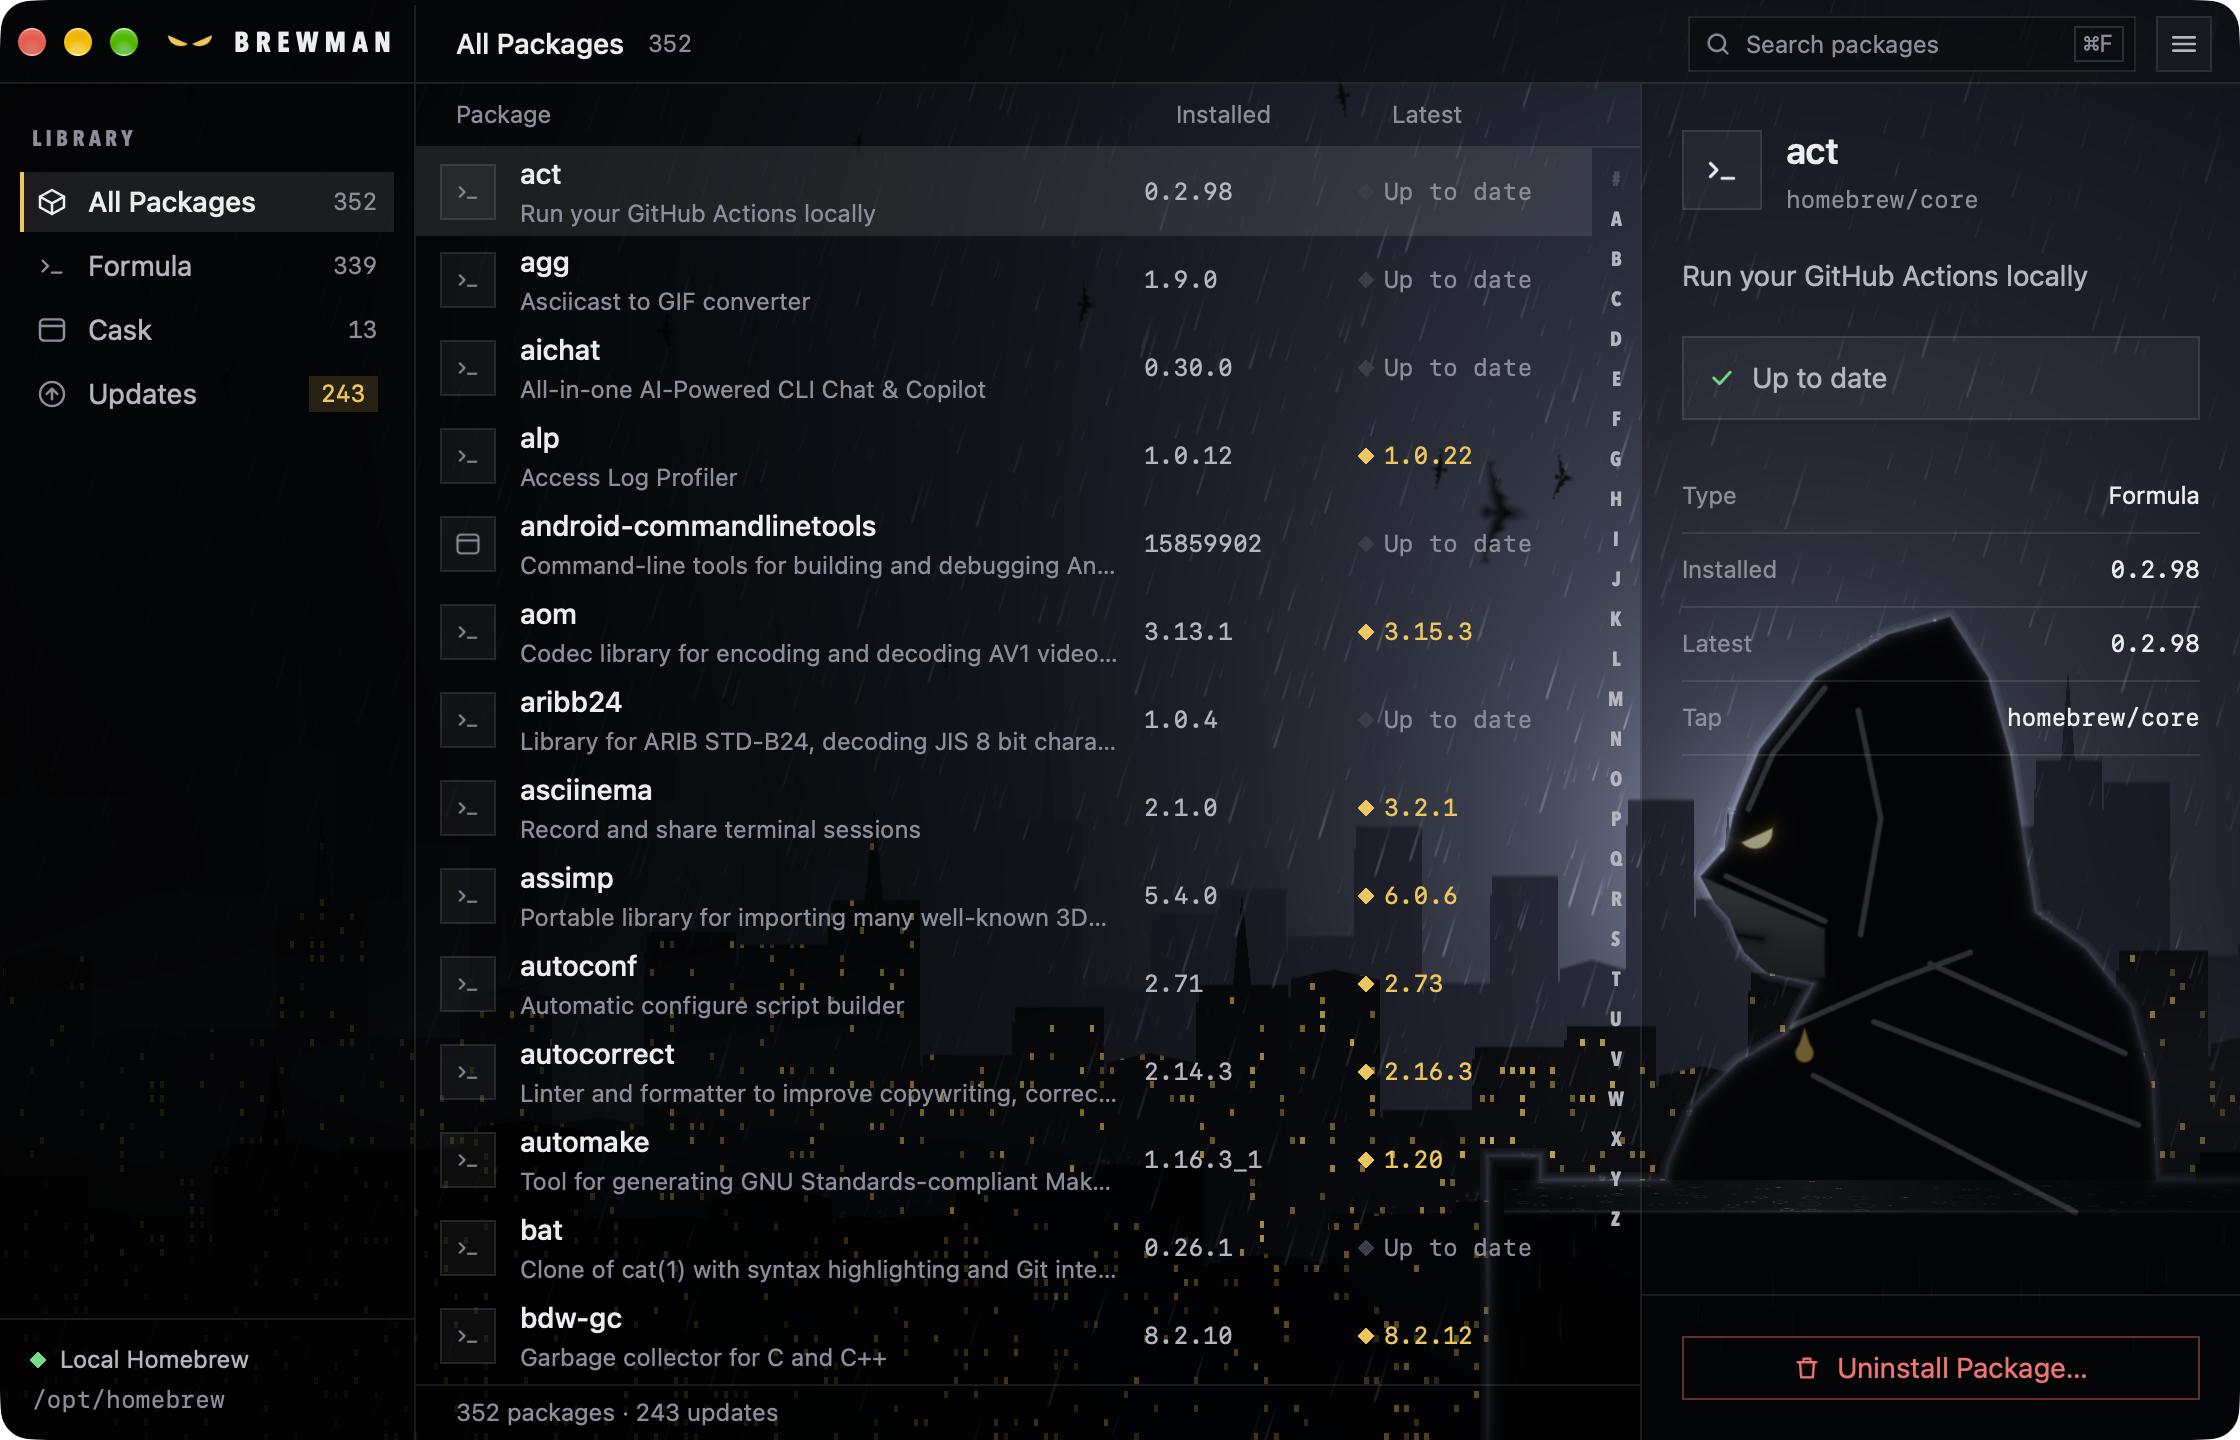
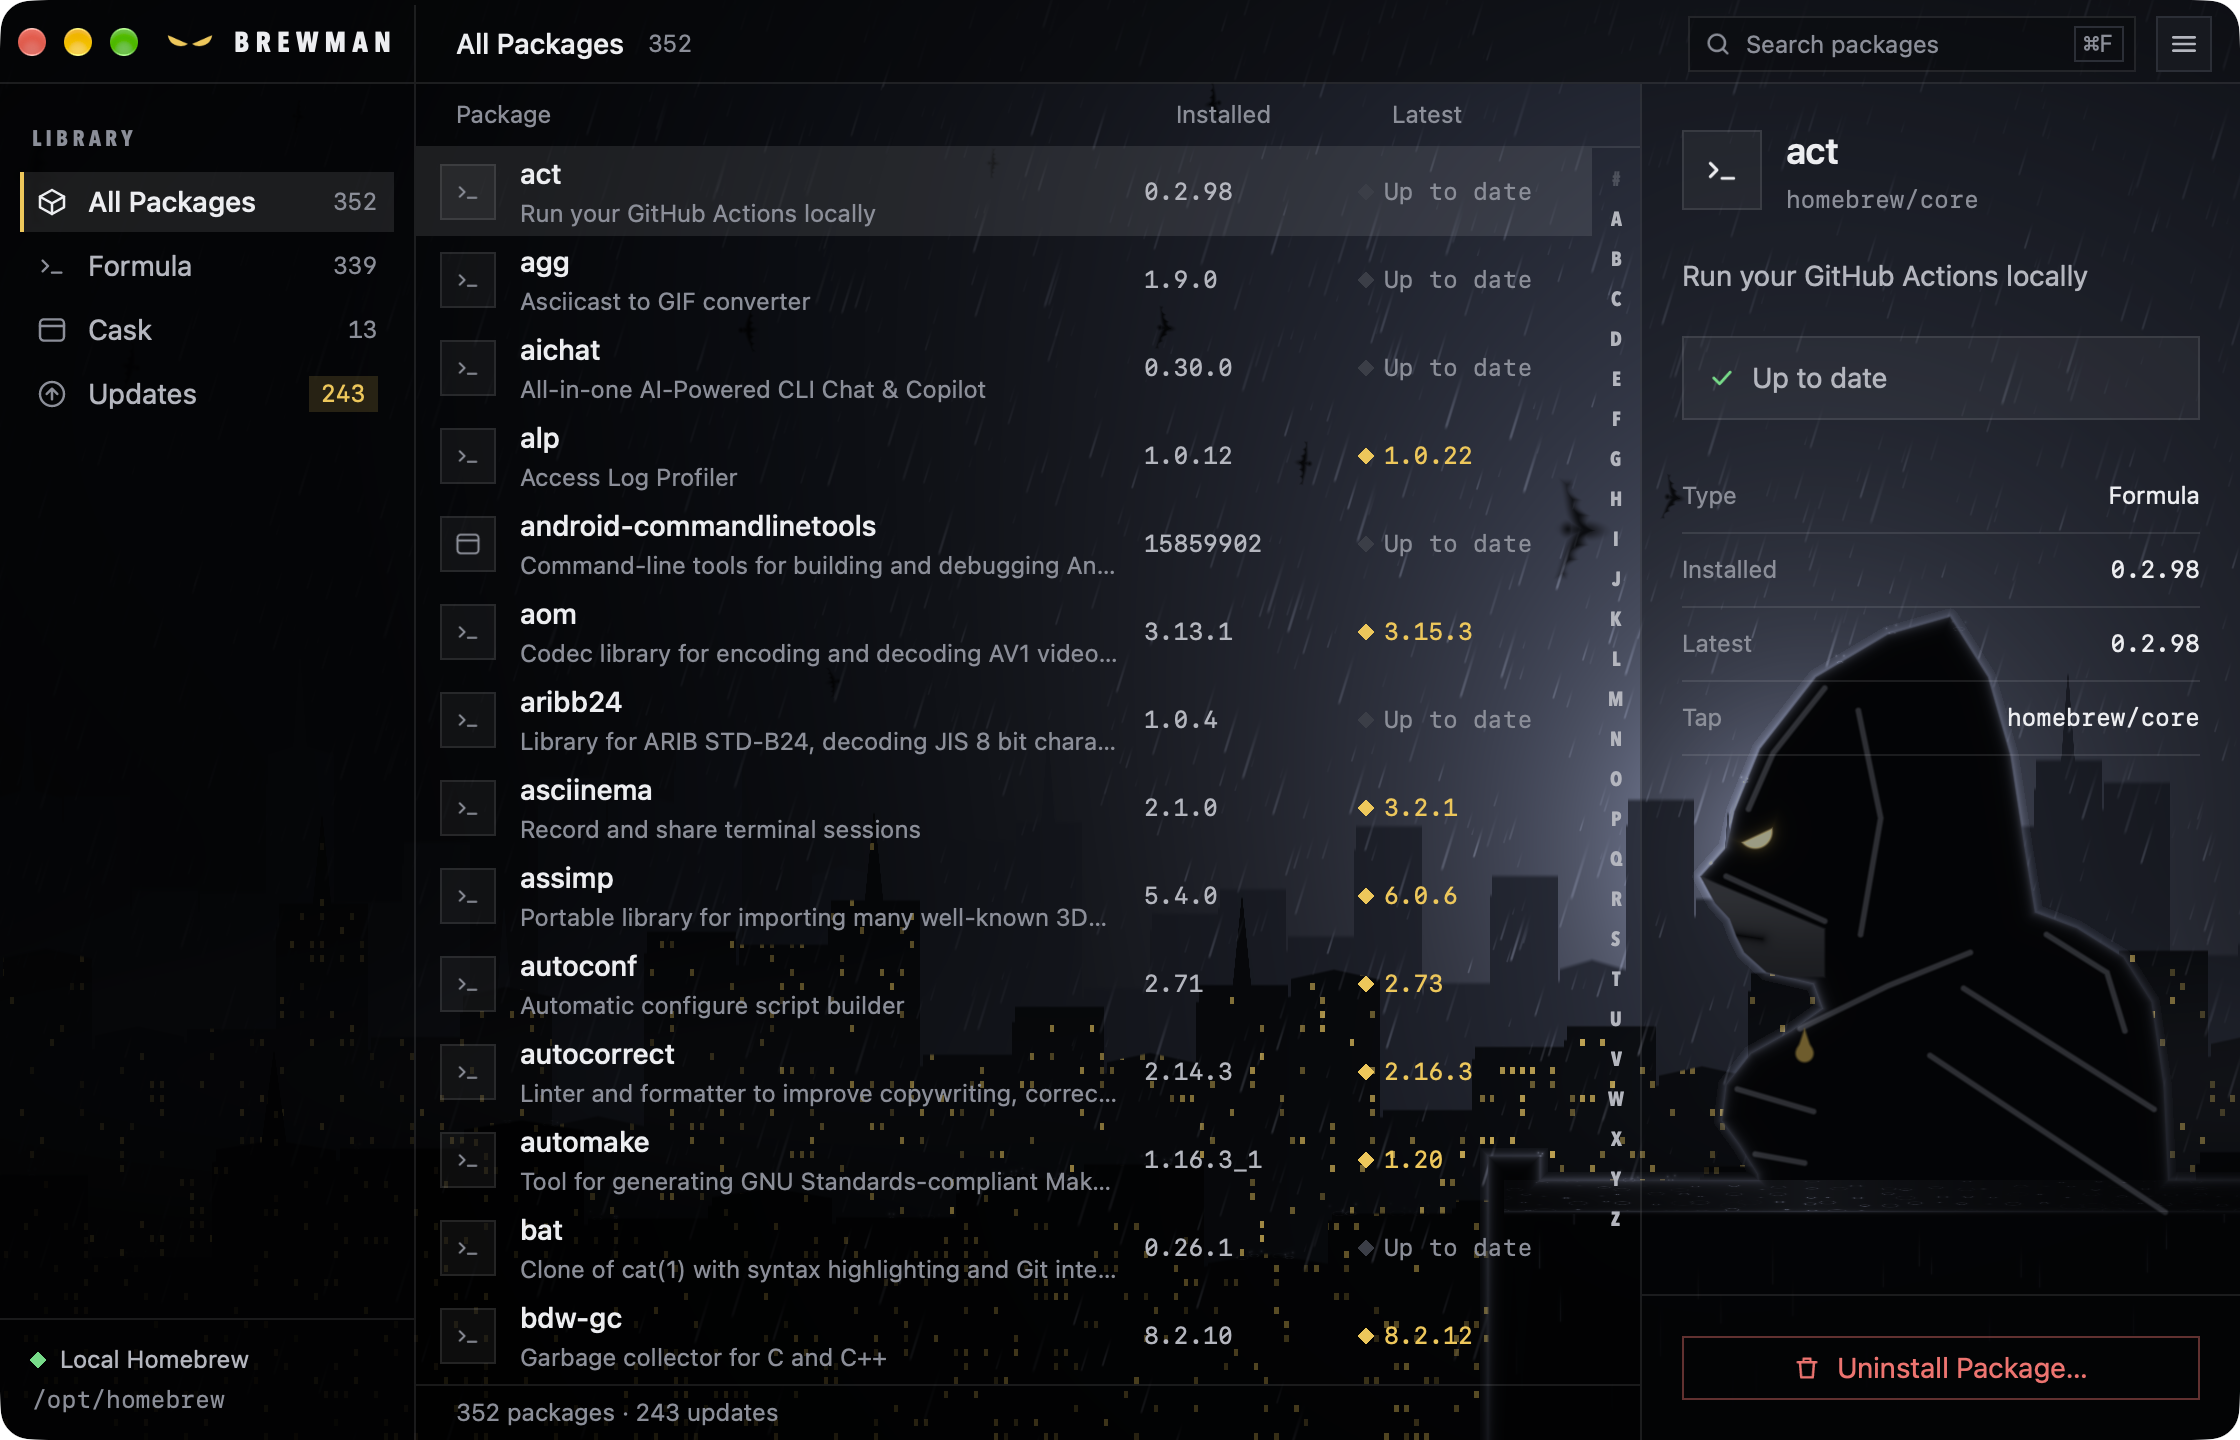
Watcher: powerful, not heavy
A thick neck, the trapezius sloping hard into a rounded deltoid, the chest
pushed forward over a narrow waist; ink lines for the deltoid, the chest's
lower edge and the waist.

diff --git a/src/ui/NightScene.tsx b/src/ui/NightScene.tsx
@@ -113,14 +113,16 @@ fn toWatcher(p: vec2f) -> vec2f { return (p - vec2f(965.0, 614.0)) / W_SCALE + v
 
 fn bust(q: vec2f) -> f32 {
   let w = sin(nsh.time * 0.8) * 4.0;   // the cape stirs
+  // Powerful, not heavy: a thick neck, the trapezius sloping hard into a rounded deltoid, the chest pushed forward
+  // over a narrow waist; the cape hangs from the far shoulder.
   return poly32(q, array<vec2f, 32>(
     vec2f(318.0, 34.0), vec2f(352.0, 88.0), vec2f(372.0, 158.0), vec2f(384.0, 236.0), vec2f(394.0, 298.0),
-    vec2f(440.0 + w * 0.3, 330.0), vec2f(482.0 + w * 0.6, 382.0), vec2f(502.0 + w, 452.0), vec2f(510.0 + w, 600.0),
-    vec2f(56.0, 600.0), vec2f(66.0, 524.0), vec2f(88.0, 472.0), vec2f(128.0, 432.0), vec2f(172.0, 406.0),
-    vec2f(196.0, 362.0), vec2f(154.0, 352.0), vec2f(134.0, 334.0), vec2f(127.0, 320.0), vec2f(121.0, 304.0),
-    vec2f(108.0, 290.0), vec2f(95.0, 266.0), vec2f(118.0, 240.0), vec2f(125.0, 208.0), vec2f(148.0, 152.0),
-    vec2f(198.0, 88.0), vec2f(262.0, 50.0), vec2f(0.0), vec2f(0.0), vec2f(0.0), vec2f(0.0), vec2f(0.0),
-    vec2f(0.0)), 26);
+    vec2f(432.0 + w * 0.2, 312.0), vec2f(474.0 + w * 0.3, 338.0), vec2f(500.0 + w * 0.5, 378.0),
+    vec2f(512.0 + w * 0.8, 452.0), vec2f(520.0 + w, 600.0), vec2f(156.0, 600.0), vec2f(146.0, 532.0),
+    vec2f(130.0, 506.0), vec2f(114.0, 484.0), vec2f(118.0, 452.0), vec2f(140.0, 424.0), vec2f(176.0, 404.0),
+    vec2f(204.0, 384.0), vec2f(196.0, 362.0), vec2f(154.0, 352.0), vec2f(134.0, 334.0), vec2f(127.0, 320.0),
+    vec2f(121.0, 304.0), vec2f(108.0, 290.0), vec2f(95.0, 266.0), vec2f(118.0, 240.0), vec2f(125.0, 208.0),
+    vec2f(148.0, 152.0), vec2f(198.0, 88.0), vec2f(262.0, 50.0), vec2f(0.0), vec2f(0.0)), 30);
 }
 
 // The bare lower face: below the mask's edge, which runs from under the nose back toward the jaw.
@@ -151,11 +153,14 @@ fn inkStrokes(q: vec2f) -> f32 {
   d = min(d, segment(q, vec2f(236.0, 118.0), vec2f(256.0, 214.0)));
   d = min(d, segment(q, vec2f(256.0, 214.0), vec2f(238.0, 318.0)));
   d = min(d, segment(q, vec2f(118.0, 266.0), vec2f(206.0, 306.0)));
-  d = min(d, segment(q, vec2f(176.0, 400.0), vec2f(262.0, 362.0)));
-  d = min(d, segment(q, vec2f(262.0, 362.0), vec2f(336.0, 334.0)));
-  d = min(d, segment(q, vec2f(300.0, 344.0), vec2f(474.0, 424.0)));
-  d = min(d, segment(q, vec2f(250.0, 396.0), vec2f(486.0, 488.0)));
-  d = min(d, segment(q, vec2f(196.0, 444.0), vec2f(430.0, 566.0)));
+  d = min(d, segment(q, vec2f(184.0, 402.0), vec2f(262.0, 364.0)));
+  d = min(d, segment(q, vec2f(262.0, 364.0), vec2f(336.0, 334.0)));
+  d = min(d, segment(q, vec2f(128.0, 456.0), vec2f(196.0, 476.0)));    // the chest's lower edge
+  d = min(d, segment(q, vec2f(144.0, 514.0), vec2f(188.0, 522.0)));    // a line across the waist
+  d = min(d, segment(q, vec2f(404.0, 318.0), vec2f(458.0, 352.0)));    // the deltoid's curve
+  d = min(d, segment(q, vec2f(458.0, 352.0), vec2f(474.0, 404.0)));
+  d = min(d, segment(q, vec2f(330.0, 366.0), vec2f(500.0, 474.0)));    // cape folds
+  d = min(d, segment(q, vec2f(300.0, 426.0), vec2f(510.0, 566.0)));
   return d;
 }
 
